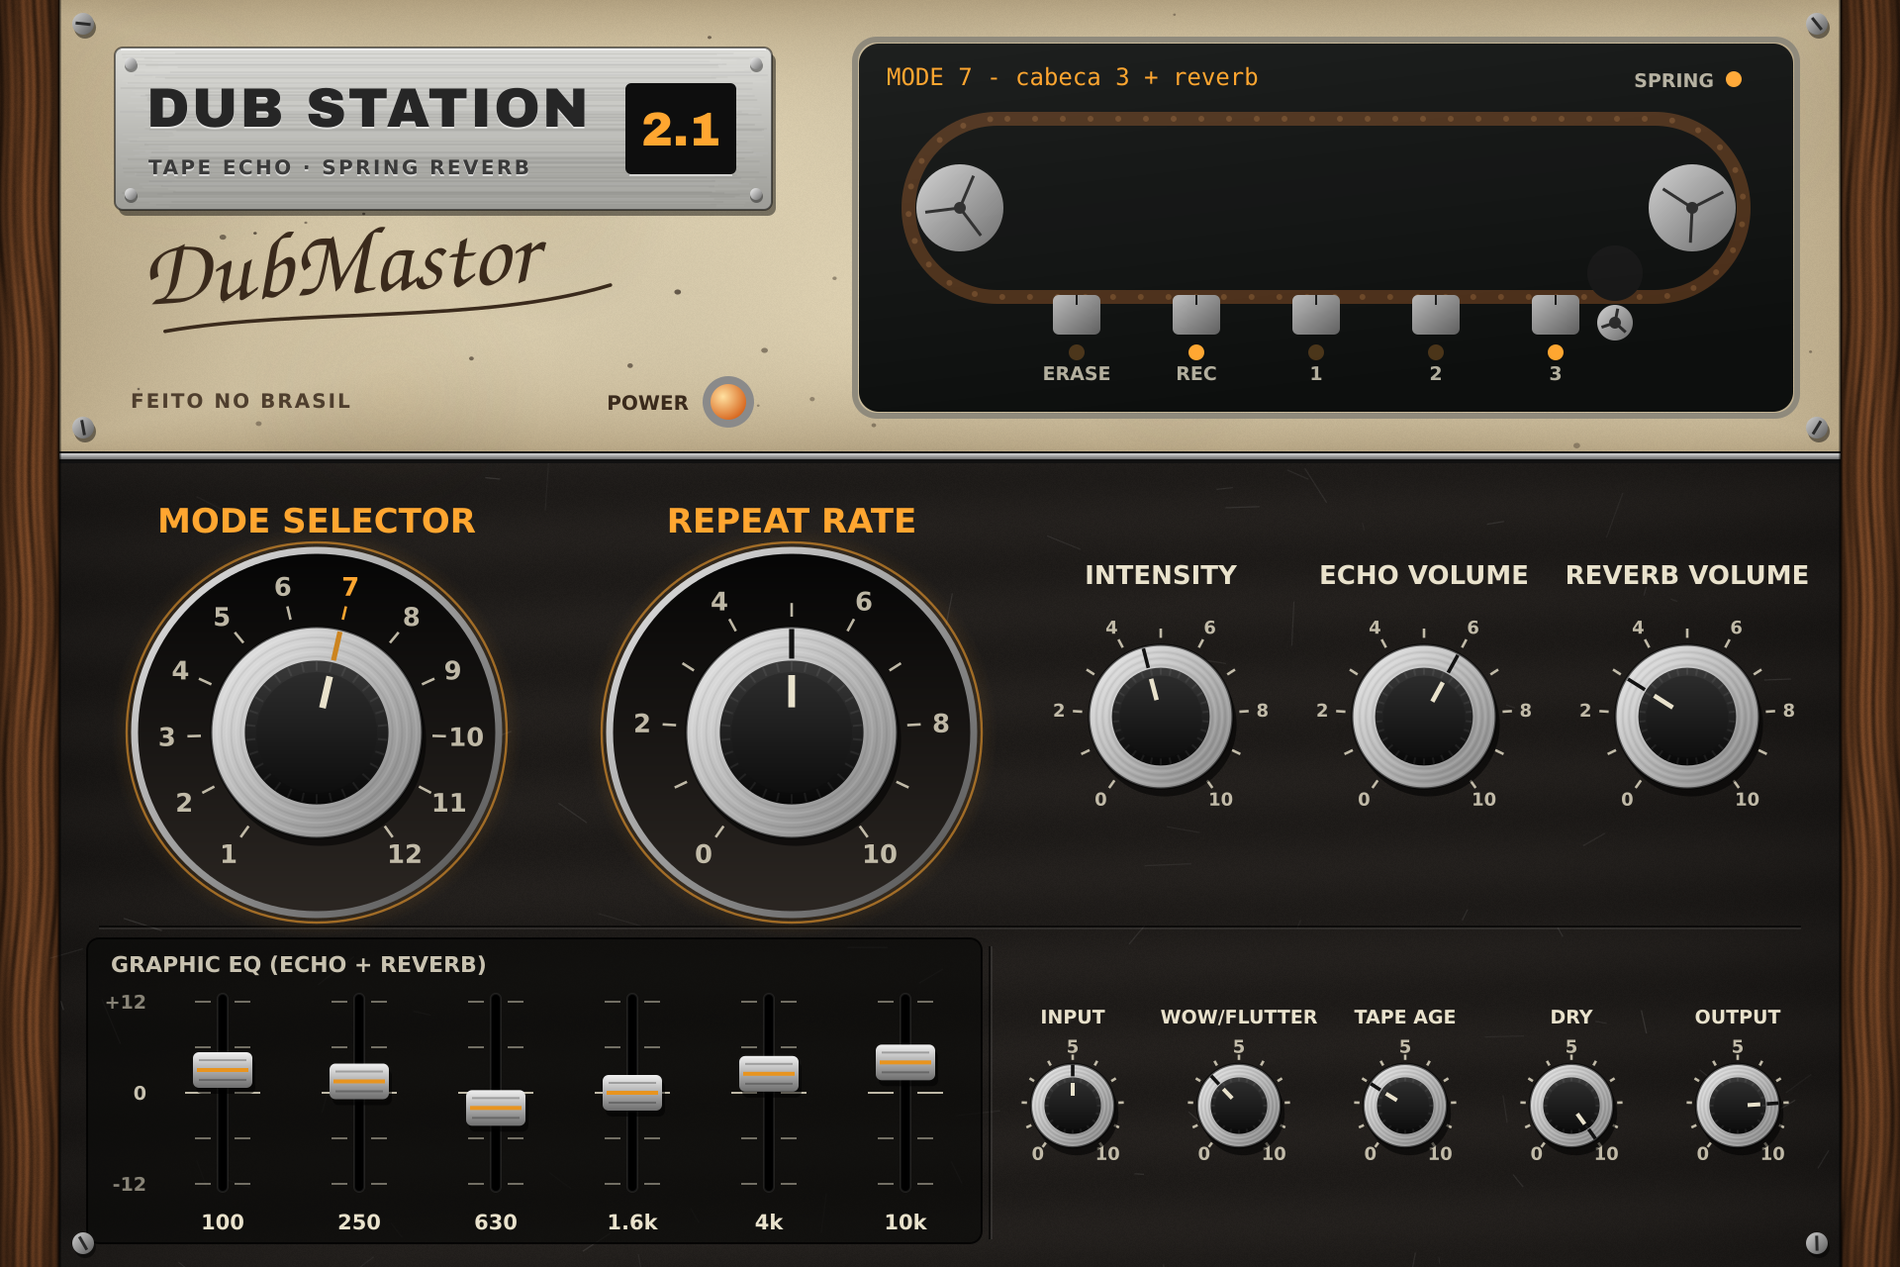
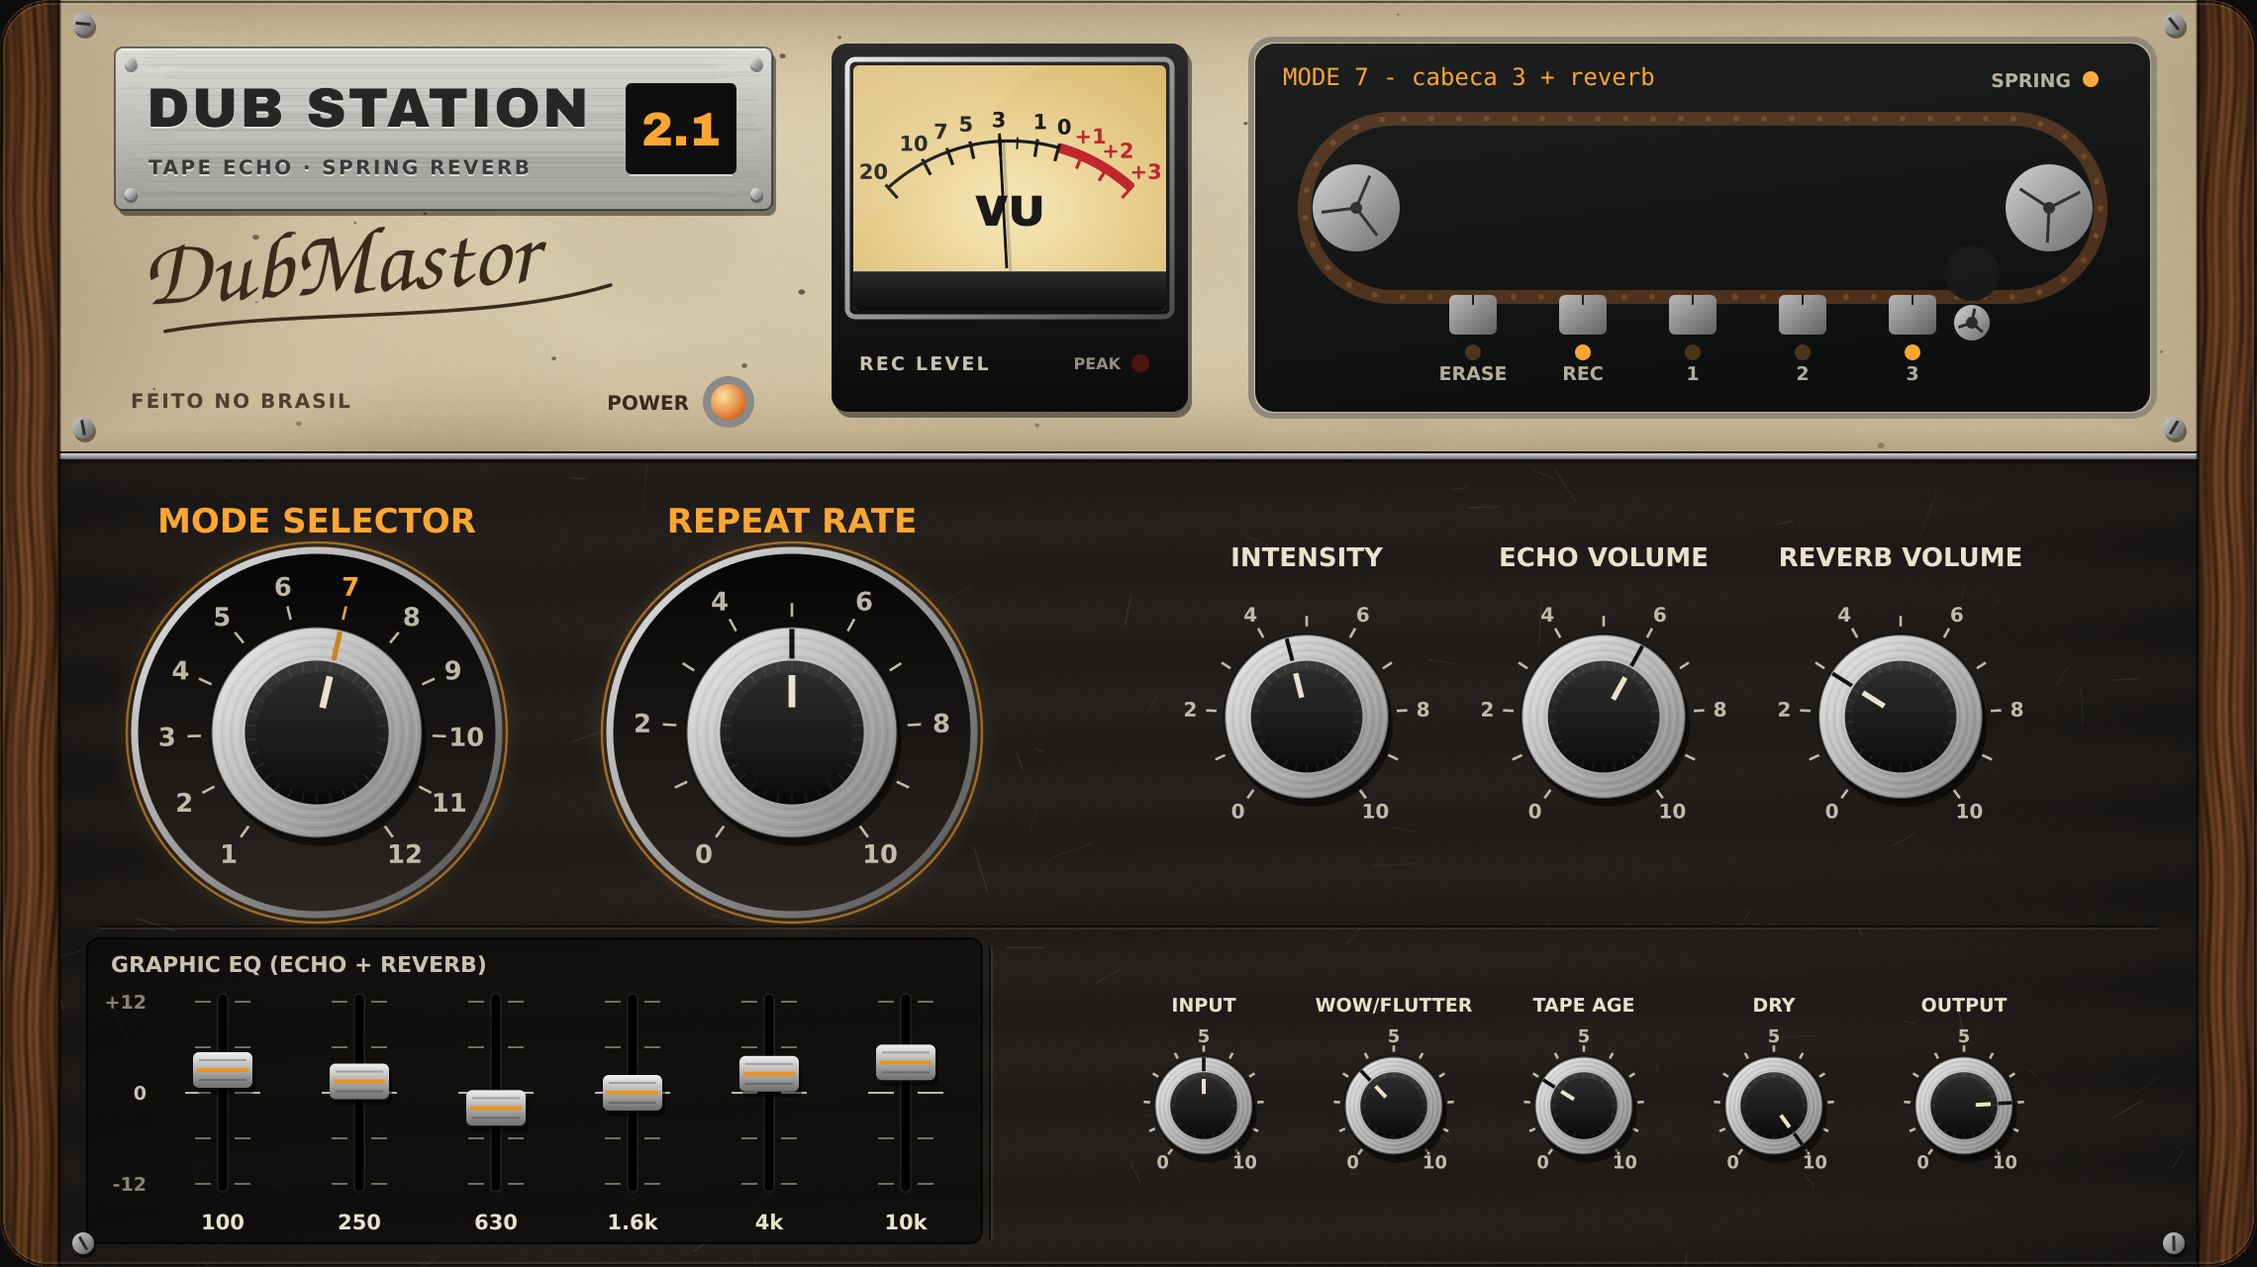
Dub Station 2.1.1: VU analógico do nível de gravação e cantos arredondados
Medidor VU no painel creme, entre a placa e a janela da fita: mede o RMS
do sinal que chega à cabeça de gravação (0 VU ~ início da saturação),
balística de ~300 ms, faixa vermelha 0..+3 e lâmpada PEAK acima de +3.
Janela 1140x640 com cantos arredondados; botões médios e pequenos com
largura fixa para manter MODE e REPEAT RATE em destaque.
Imagens do README e do site atualizadas.

Claude-Session: https://claude.ai/code/session_01DJAeyYTcM2w1MTMrHyUZsT

diff --git a/site/index.html b/site/index.html
@@ -132,7 +132,7 @@
     overflow: hidden;
     display: flex; flex-direction: column;
   }
-  .card .shot { aspect-ratio: 3 / 2; height: auto; background: #0d0f0e; display: block; width: 100%; object-fit: cover; border-bottom: 1px solid #000; }
+  .card .shot { aspect-ratio: 16 / 9; height: auto; background: #0d0f0e; display: block; width: 100%; object-fit: cover; border-bottom: 1px solid #000; }
   .card .body { padding: 20px 22px 22px; display: flex; flex-direction: column; gap: 12px; flex: 1; }
   .card h3 { margin: 0; font-family: "Plate", Impact, sans-serif; font-weight: 400; font-size: 24px; letter-spacing: .03em; color: var(--cream); }
   .card h3 small { font-family: system-ui, sans-serif; font-weight: 700; font-size: 13px; color: var(--amber); letter-spacing: .08em; margin-left: 6px; }
@@ -250,13 +250,13 @@
         </article>
 
         <article class="card">
-          <img class="shot" src="img/dubstation21.jpg" alt="Interface do Dub Station 2.1: painel creme com placa metálica, janela da fita e botões de alumínio" width="1200" height="800" loading="lazy">
+          <img class="shot" src="img/dubstation21.jpg" alt="Interface do Dub Station 2.1: painel creme com placa metálica, janela da fita e botões de alumínio" width="1400" height="786" loading="lazy">
           <div class="body">
             <h3>Dub Station <small>2.1</small></h3>
             <p>Eco de fita de três cabeças com reverb de mola, no visual de equipamento de estúdio dos anos 70.</p>
             <ul>
               <li>Seletor de 12 modos e Repeat Rate com o pitch da fita</li>
-              <li>Saturação, wow &amp; flutter e desgaste de fita</li>
+              <li>VU analógico do nível de gravação, saturação, wow &amp; flutter e desgaste de fita</li>
               <li>Reverb de mola e EQ gráfico de 6 bandas nas repetições</li>
             </ul>
             <div class="formats">Windows: VST3 + standalone · Mac: VST3, AU + standalone (Intel e Apple Silicon)</div>

diff --git a/DubStation21/Source/PluginEditor.cpp b/DubStation21/Source/PluginEditor.cpp
@@ -9,7 +9,7 @@ const juce::Colour amber     (0xffffa630);
 const juce::Colour lampOff   (0xff4a3418);
 
 constexpr int kWood = 30;
-constexpr int kW = 900 + 2 * kWood, kH = 640;
+constexpr int kW = 1080 + 2 * kWood, kH = 640;
 constexpr int kTopH = 230;
 
 // knob index -> parameter id / label
@@ -22,6 +22,14 @@ const char* labels[kNumKnobs] = { "MODE SELECTOR", "REPEAT RATE", "INTENSITY", "
                                   "INPUT", "WOW/FLUTTER", "TAPE AGE", "DRY", "OUTPUT" };
 constexpr int kNumEq = 6;
 const char* eqLabels[kNumEq] = { "100", "250", "630", "1.6k", "4k", "10k" };
+
+// VU scale: linear in voltage from -20 VU to +3 VU, needle swing +-42 degrees
+constexpr float kVuSwing = 0.7330f; // 42 degrees in radians
+float vuToPos (float vu)
+{
+    const float a = std::pow (10.0f, juce::jlimit (-30.0f, 8.0f, vu) / 20.0f);
+    return (a - 0.1f) / (1.4125f - 0.1f);
+}
 
 juce::String modeDescription (int m)
 {
@@ -203,6 +211,14 @@ void FitaEcoEditor::timerCallback()
     tapePhase += 0.6f + 2.2f * rate;
     shownMode = (int) proc.apvts.getRawParameterValue ("mode")->load();
 
+    // VU ballistics (~300 ms rise, slight overshoot), peak lamp above +3 VU
+    const float vu = proc.getRecVu();
+    const float target = juce::jlimit (-0.03f, 1.06f, vuToPos (vu));
+    needleVel = (needleVel + (target - needlePos) * 0.30f) * 0.58f;
+    needlePos += needleVel;
+    peakHold = vu > 3.0f ? 15 : juce::jmax (0, peakHold - 1);
+    repaint (vuArea);
+
     juce::String text = modeDescription (shownMode);
     for (int i = 0; i < kNumKnobs; ++i)
     {
@@ -301,6 +317,7 @@ void FitaEcoEditor::paint (juce::Graphics& g)
     }
 
     drawTapeTransport (g);
+    drawVuNeedle (g);
 }
 
 void FitaEcoEditor::drawTapeTransport (juce::Graphics& g)
@@ -380,13 +397,141 @@ void FitaEcoEditor::drawTapeTransport (juce::Graphics& g)
     g.drawRoundedRectangle (win.expanded (2.0f), 11.0f, 3.0f);
 }
 
+// ---------------------------------------------------------------- VU meter
+namespace
+{
+struct VuGeom
+{
+    juce::Rectangle<float> housing, face, label;
+    juce::Point<float> pivot;
+    float radius;
+};
+VuGeom vuGeom (juce::Rectangle<int> area)
+{
+    VuGeom v;
+    v.housing = area.toFloat();
+    v.face = v.housing.reduced (11.0f).withHeight (124.0f);
+    v.label = juce::Rectangle<float> (v.housing.getX(), v.face.getBottom() + 6.0f, v.housing.getWidth(), v.housing.getBottom() - v.face.getBottom() - 10.0f);
+    v.pivot = { v.face.getCentreX(), v.face.getBottom() + 6.0f };
+    v.radius = v.face.getHeight() * 0.74f;
+    return v;
+}
+} // namespace
+
+void FitaEcoEditor::drawVuFace (juce::Graphics& g)
+{
+    const auto v = vuGeom (vuArea);
+    // black bakelite housing with chrome inner ring
+    g.setColour (juce::Colours::black.withAlpha (0.45f));
+    g.fillRoundedRectangle (v.housing.translated (2.0f, 3.0f), 8.0f);
+    g.setGradientFill (juce::ColourGradient (juce::Colour (0xff2a2a2a), 0, v.housing.getY(), juce::Colour (0xff0b0b0b), 0, v.housing.getBottom(), false));
+    g.fillRoundedRectangle (v.housing, 8.0f);
+    g.setGradientFill (juce::ColourGradient (juce::Colour (0xffe8e8e8), v.face.getX(), v.face.getY(), juce::Colour (0xff4c4c4c), v.face.getRight(), v.face.getBottom(), false));
+    g.drawRoundedRectangle (v.face.expanded (3.0f), 4.0f, 2.5f);
+
+    // backlit face (warm incandescent glow, brighter in the middle)
+    g.setGradientFill (juce::ColourGradient (juce::Colour (0xfff7e8b8), v.face.getCentreX(), v.face.getY() + v.face.getHeight() * 0.55f,
+                                             juce::Colour (0xffd9b86a), v.face.getX(), v.face.getY(), true));
+    g.fillRoundedRectangle (v.face, 3.0f);
+
+    juce::Graphics::ScopedSaveState ss (g);
+    g.reduceClipRegion (v.face.toNearestInt());
+
+    const auto c = v.pivot;
+    const float R = v.radius;
+    auto angleOf = [] (float pos) { return -kVuSwing + 2.0f * kVuSwing * juce::jlimit (0.0f, 1.0f, pos); };
+
+    // scale arcs: black up to 0 VU, red from 0 to +3
+    juce::Path black, red;
+    black.addCentredArc (c.x, c.y, R, R, 0.0f, angleOf (0.0f), angleOf (vuToPos (0.0f)), true);
+    red.addCentredArc (c.x, c.y, R, R, 0.0f, angleOf (vuToPos (0.0f)), angleOf (1.0f), true);
+    g.setColour (juce::Colour (0xff1a1a1a));
+    g.strokePath (black, juce::PathStrokeType (1.6f));
+    g.setColour (juce::Colour (0xffc0262d));
+    g.strokePath (red, juce::PathStrokeType (5.0f));
+
+    // ticks + numbers
+    const float marks[] = { -20, -10, -7, -5, -3, -2, -1, 0, 1, 2, 3 };
+    g.setFont (juce::FontOptions (10.5f, juce::Font::bold));
+    for (float m : marks)
+    {
+        const float t = angleOf (vuToPos (m));
+        const bool hot = m > 0.0f, major = m != -2.0f;
+        g.setColour (hot ? juce::Colour (0xffc0262d) : juce::Colour (0xff1a1a1a));
+        g.drawLine ({ c.getPointOnCircumference (R - (major ? 7.0f : 4.0f), t), c.getPointOnCircumference (R + 2.0f, t) }, major ? 1.6f : 1.0f);
+        if (major)
+        {
+            const auto np = c.getPointOnCircumference (R + 11.0f, t);
+            const juce::String txt = m > 0 ? "+" + juce::String ((int) m) : juce::String ((int) std::abs (m));
+            g.drawText (txt, juce::Rectangle<float> (np.x - 12, np.y - 7, 24, 14), juce::Justification::centred);
+        }
+    }
+    g.setColour (juce::Colour (0xff1a1a1a));
+    g.setFont (juce::FontOptions (plateFace).withHeight (22.0f));
+    g.drawText ("VU", juce::Rectangle<float> (v.face.getX(), v.face.getY() + v.face.getHeight() * 0.50f, v.face.getWidth(), 26), juce::Justification::centred);
+}
+
+void FitaEcoEditor::drawVuNeedle (juce::Graphics& g)
+{
+    const auto v = vuGeom (vuArea);
+    {
+        juce::Graphics::ScopedSaveState ss (g);
+        g.reduceClipRegion (v.face.toNearestInt());
+        const float t = -kVuSwing + 2.0f * kVuSwing * juce::jlimit (-0.03f, 1.06f, needlePos);
+        const auto tip = v.pivot.getPointOnCircumference (v.radius + 4.0f, t);
+        const auto base = v.pivot.getPointOnCircumference (v.radius * 0.30f, t);
+        g.setColour (juce::Colours::black.withAlpha (0.18f)); // soft shadow on the face
+        g.drawLine ({ base.translated (2.0f, 3.0f), tip.translated (2.0f, 3.0f) }, 1.6f);
+        g.setColour (juce::Colour (0xff111111));
+        g.drawLine ({ base, tip }, 1.4f);
+
+        // dark cover hiding the pivot, with the meter's screw
+        auto cover = v.face.withTop (v.face.getBottom() - 20.0f);
+        g.setGradientFill (juce::ColourGradient (juce::Colour (0xff2b2b2b), 0, cover.getY(), juce::Colour (0xff0c0c0c), 0, cover.getBottom(), false));
+        g.fillRect (cover);
+        g.setColour (juce::Colours::white.withAlpha (0.15f));
+        g.drawLine (cover.getX(), cover.getY(), cover.getRight(), cover.getY(), 1.0f);
+
+        // glass reflection
+        g.setGradientFill (juce::ColourGradient (juce::Colours::white.withAlpha (0.22f), v.face.getX(), v.face.getY(),
+                                                 juce::Colours::transparentWhite, v.face.getX() + v.face.getWidth() * 0.55f, v.face.getY() + v.face.getHeight() * 0.6f, false));
+        juce::Path glare;
+        glare.startNewSubPath (v.face.getX(), v.face.getY());
+        glare.lineTo (v.face.getRight() * 0.6f + v.face.getX() * 0.4f, v.face.getY());
+        glare.lineTo (v.face.getX(), v.face.getY() + v.face.getHeight() * 0.7f);
+        glare.closeSubPath();
+        g.fillPath (glare);
+    }
+
+    // label strip: REC LEVEL + PEAK lamp
+    g.setColour (cream.withAlpha (0.85f));
+    g.setFont (juce::FontOptions (9.5f, juce::Font::bold).withKerningFactor (0.12f));
+    g.drawText ("REC LEVEL", v.label.withTrimmedLeft (14.0f), juce::Justification::centredLeft);
+    const auto lp = juce::Point<float> (v.label.getRight() - 24.0f, v.label.getCentreY());
+    g.setColour (peakHold > 0 ? juce::Colour (0xffff3b2f) : juce::Colour (0xff4a1612));
+    g.fillEllipse (lp.x - 4.5f, lp.y - 4.5f, 9.0f, 9.0f);
+    if (peakHold > 0)
+    {
+        g.setColour (juce::Colour (0x66ff3b2f));
+        g.fillEllipse (lp.x - 8.0f, lp.y - 8.0f, 16.0f, 16.0f);
+    }
+    g.setColour (cream.withAlpha (0.6f));
+    g.setFont (juce::FontOptions (8.0f, juce::Font::bold));
+    g.drawText ("PEAK", juce::Rectangle<float> (lp.x - 46.0f, lp.y - 6.0f, 36.0f, 12.0f), juce::Justification::centredRight);
+}
+
 void FitaEcoEditor::resized()
 {
     auto content = getLocalBounds().reduced (kWood, 0);
     topPanel = content.removeFromTop (kTopH);
     plateArea = juce::Rectangle<float> ((float) topPanel.getX() + 28.0f, 24.0f, 332.0f, 82.0f);
     bottomPanel = content;
-    tapeWindow = topPanel.withTrimmedLeft (380).reduced (24, 22);
+    {
+        auto tp = topPanel;
+        tp.removeFromLeft (380);
+        vuArea = tp.removeFromLeft (200).reduced (10, 22);
+        tapeWindow = tp.reduced (24, 22);
+    }
     status.setBounds (tapeWindow.getX() + 14, tapeWindow.getY() + 8, 300, 18);
 
     auto rows = bottomPanel.reduced (10, 0).withTrimmedTop (12).withTrimmedBottom (10);
@@ -405,7 +550,8 @@ void FitaEcoEditor::resized()
 
     // row A: giant MODE + REPEAT RATE, then the medium echo knobs
     for (int i = 0; i < kNumBig; ++i) place (knobs[(size_t) i], rowA.removeFromLeft (240), 34);
-    const int wm = rowA.getWidth() / kNumMedium;
+    const int wm = 150; // fixed widths keep MODE / REPEAT RATE the stars
+    rowA.removeFromLeft ((rowA.getWidth() - kNumMedium * wm) / 2);
     for (int i = kNumBig; i < kNumBig + kNumMedium; ++i) place (knobs[(size_t) i], rowA.removeFromLeft (wm), 18);
 
     // row B: graphic EQ on the left, small utility knobs on the right
@@ -421,7 +567,8 @@ void FitaEcoEditor::resized()
         f.slider.setBounds (faders.removeFromLeft (fw).reduced (8, 0));
         f.label.setBounds (freqRow.removeFromLeft (fw));
     }
-    const int ws = rowB.getWidth() / (kNumKnobs - kNumBig - kNumMedium);
+    const int ws = 96;
+    rowB.removeFromLeft ((rowB.getWidth() - (kNumKnobs - kNumBig - kNumMedium) * ws) / 2);
     for (int i = kNumBig + kNumMedium; i < kNumKnobs; ++i) place (knobs[(size_t) i], rowB.removeFromLeft (ws), 15);
 
     renderBackground();
@@ -523,6 +670,8 @@ void FitaEcoEditor::renderBackground()
         g.drawLine (inset.getX() + 2, inset.getBottom() + 0.5f, inset.getRight() - 2, inset.getBottom() + 0.5f, 1.0f);
     }
 
+    drawVuFace (g);
+
     // panel seam with chrome trim strip
     g.setColour (juce::Colour (0xff111111));
     g.fillRect ((float) kWood, tH - 2.0f, w - 2.0f * kWood, 6.0f);
@@ -614,4 +763,18 @@ void FitaEcoEditor::renderBackground()
     g.setColour (juce::Colours::black.withAlpha (0.6f));
     g.drawLine ((float) kWood, 0.0f, (float) kWood, h, 1.5f);
     g.drawLine (w - (float) kWood, 0.0f, w - (float) kWood, h, 1.5f);
+
+    // rounded corners for the whole unit: mask the outside, then a soft bevel along the edge
+    const auto unit = juce::Rectangle<float> (0.0f, 0.0f, w, h);
+    const float corner = 24.0f;
+    juce::Path outside;
+    outside.addRectangle (unit.expanded (2.0f));
+    outside.addRoundedRectangle (unit, corner);
+    outside.setUsingNonZeroWinding (false);
+    g.setColour (juce::Colour (0xff0c0c0c));
+    g.fillPath (outside);
+    g.setColour (juce::Colours::white.withAlpha (0.10f));
+    g.drawRoundedRectangle (unit.reduced (1.5f), corner - 1.5f, 1.2f);
+    g.setColour (juce::Colours::black.withAlpha (0.55f));
+    g.drawRoundedRectangle (unit.reduced (0.5f), corner, 1.0f);
 }

diff --git a/DubStation21/Source/TapeEchoDSP.h b/DubStation21/Source/TapeEchoDSP.h
@@ -232,6 +232,7 @@ public:
         const float drive = 0.5f + target.input * 3.5f;
         const float fb = target.intensity * 1.09f; // single head: oscillates above ~0.8
         const float wf = target.wowFlutter;
+        double recSumSq = 0.0;
 
         for (int i = 0; i < n; ++i)
         {
@@ -275,6 +276,7 @@ public:
             float pre = std::tanh (x * drive) / std::tanh (drive * 0.6f + 0.2f);
             float fbSig = fbHP.process (echo) * fbG * fbNorm;
             float rec = recHP.process (pre * 0.7f + fbSig);
+            recSumSq += (double) rec * rec;
             float satAmt = 1.0f + 1.5f * target.tapeAge;
             float r = std::tanh (satAmt * rec + 0.08f) - std::tanh (0.08f);
             tape.push (r / satAmt * 1.15f);
@@ -299,7 +301,13 @@ public:
             outR[i] = std::tanh (yr * 0.8f) * 1.25f;
             (void) inR;
         }
+        recRms = n > 0 ? (float) std::sqrt (recSumSq / n) : 0.0f;
     }
+
+    // RMS of the signal reaching the record head in the last block (for the VU meter).
+    // 0 VU on the meter = kRecRef: about where the tape starts to saturate audibly.
+    float getRecRms() const { return recRms; }
+    static constexpr float kRecRef = 0.25f;
 
 private:
     void updateFilters (bool force)
@@ -334,6 +342,6 @@ public:
 private:
     Biquad headLP[3], recHP, fbHP, eqL[Params::kEqBands], eqR[Params::kEqBands];
     Rng rng;
-    float wowPh = 0, flPh = 0, lastEcho = 0;
+    float wowPh = 0, flPh = 0, lastEcho = 0, recRms = 0;
 };
 } // namespace fitaeco

diff --git a/DubStation21/Source/PluginEditor.h b/DubStation21/Source/PluginEditor.h
@@ -30,6 +30,8 @@ private:
     void timerCallback() override;
     void renderBackground();
     void drawTapeTransport (juce::Graphics&);
+    void drawVuFace (juce::Graphics&);     // static: housing, face, scale (into the background)
+    void drawVuNeedle (juce::Graphics&);   // dynamic: needle, peak lamp, glass
 
     struct Knob
     {
@@ -45,7 +47,9 @@ private:
     juce::Label status;
     int shownMode = -1;
     float tapePhase = 0.0f;
-    juce::Rectangle<int> topPanel, bottomPanel, tapeWindow, eqArea;
+    juce::Rectangle<int> topPanel, bottomPanel, tapeWindow, eqArea, vuArea;
+    float needlePos = 0.0f, needleVel = 0.0f; // VU ballistics (0..1 of the scale)
+    int peakHold = 0;
     juce::Image background; // pre-rendered wood / enamel / panel (2x for HiDPI)
     juce::Typeface::Ptr plateFace, scriptFace; // embedded fonts (Archivo Black, TeX Gyre Chorus)
     juce::Rectangle<float> plateArea;

diff --git a/DubStation21/Source/PluginProcessor.h b/DubStation21/Source/PluginProcessor.h
@@ -34,9 +34,13 @@ public:
     juce::AudioProcessorValueTreeState apvts;
     static juce::AudioProcessorValueTreeState::ParameterLayout createLayout();
 
+    // level at the record head, in VU (0 VU = TapeEcho::kRecRef), read by the editor's meter
+    float getRecVu() const { return recVu.load(); }
+
 private:
     fitaeco::TapeEcho echo;
     juce::AudioBuffer<float> monoScratch;
+    std::atomic<float> recVu { -60.0f };
 
     std::atomic<float>* pInput {}; std::atomic<float>* pMode {}; std::atomic<float>* pRate {};
     std::atomic<float>* pIntensity {}; std::atomic<float>* pEcho {}; std::atomic<float>* pReverb {};

diff --git a/DubStation21/Source/PluginProcessor.cpp b/DubStation21/Source/PluginProcessor.cpp
@@ -80,6 +80,7 @@ void FitaEcoProcessor::processBlock (juce::AudioBuffer<float>& buffer, juce::Mid
     float* oL = monoScratch.getWritePointer (0);
     float* oR = monoScratch.getWritePointer (1);
     echo.process (inL, inR, oL, oR, n);
+    recVu.store (juce::Decibels::gainToDecibels (echo.getRecRms() / fitaeco::TapeEcho::kRecRef, -60.0f));
 
     buffer.copyFrom (0, 0, oL, n);
     if (outCh > 1) buffer.copyFrom (1, 0, oR, n);

diff --git a/DubStation21/README.md b/DubStation21/README.md
@@ -13,7 +13,7 @@ Plugin de delay de fita inspirado nos ecos de fita clássicos de 3 cabeças dos 
 
 | Knob | Função |
 |---|---|
-| INPUT | Ganho do pré-amplificador (satura a entrada) |
+| INPUT | Ganho do pré-amplificador (satura a entrada). Ajuste olhando o **VU**: ponteiro perto do 0 = fita no ponto; no vermelho = saturação |
 | MODE | Seletor de 12 posições (tabela abaixo) |
 | REPEAT RATE | Velocidade da fita. Mudar durante a execução dobra o pitch, como fita de verdade |
 | INTENSITY | Realimentação. Acima de ~0,8 (1 cabeça) ou ~0,7 (várias) entra em auto-oscilação |
